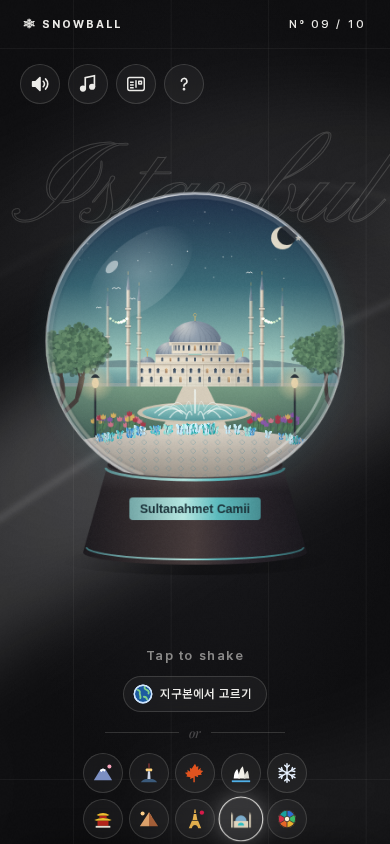
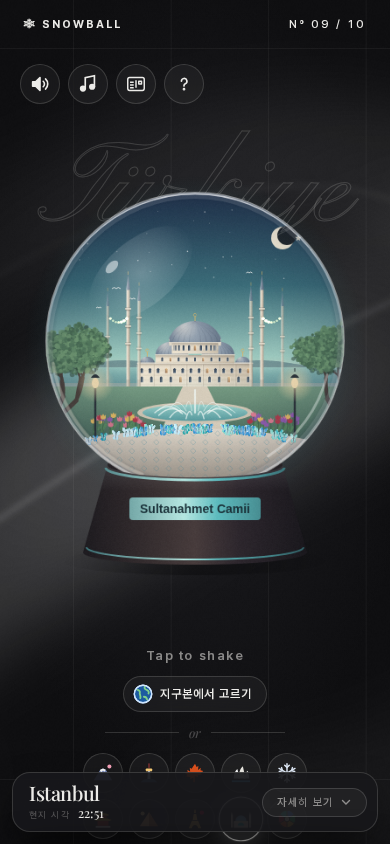
Phones and tablets: city bar pinned to the bottom of the screen, opens the story sheet; ticker and colophon sit above it
Claude-Session: https://claude.ai/code/session_01JhbTuZzDjvpknmtaqT34oX

diff --git a/styles.css b/styles.css
@@ -491,15 +491,74 @@ body {
     display: none;
   }
 
-  /* 도시 소개는 스노우볼과 버튼 아래로 내려옴 */
+  /* 도시 소개는 화면 아래에 붙어 따라다니는 작은 띠: 도시 이름·현지 시각·자세히 보기만.
+     누르면 이야기와 랜드마크가 바텀 시트로 올라옴 */
   body {
     flex-direction: column;
     gap: 36px;
+    padding-bottom: calc(200px + env(safe-area-inset-bottom, 0px));
+  }
+
+  /* 아래 이름 띠와 저작권 줄은 따라다니는 띠 위로 올림 */
+  .ticker {
+    bottom: calc(124px + env(safe-area-inset-bottom, 0px));
+  }
+
+  .colophon {
+    bottom: calc(102px + env(safe-area-inset-bottom, 0px));
+  }
+
+  .meta .meta-place {
+    display: none;
   }
 
   .meta {
-    position: static;
-    width: min(100%, 420px);
+    position: fixed;
+    left: 12px;
+    right: 12px;
+    bottom: calc(12px + env(safe-area-inset-bottom, 0px));
+    z-index: 25;
+    width: auto;
+    max-width: 460px;
+    margin: 0 auto;
+    display: grid;
+    grid-template-columns: 1fr auto;
+    grid-template-areas: "city toggle" "now toggle";
+    align-items: center;
+    column-gap: 12px;
+    padding: 10px 10px 10px 16px;
+    border: 1px solid var(--line);
+    border-radius: 18px;
+    background: rgba(23, 23, 27, 0.94);
+    box-shadow: 0 16px 40px -12px rgba(0, 0, 0, 0.8);
+  }
+
+  .meta .meta-num,
+  .meta .meta-thisis,
+  .meta .meta-tagline {
+    display: none;
+  }
+
+  .meta .meta-city {
+    grid-area: city;
+    margin: 0;
+    font-size: 20px;
+    letter-spacing: -0.02em;
+  }
+
+  .meta .meta-now {
+    grid-area: now;
+    margin: 2px 0 0;
+    font-size: 10px;
+  }
+
+  .meta .meta-time {
+    font-size: 13px;
+  }
+
+  .meta .meta-toggle {
+    grid-area: toggle;
+    margin: 0;
   }
 
   /* 좁은 화면: 자세한 이야기는 현재 장면 카드 하나만 바텀 시트로 올라옴 */
